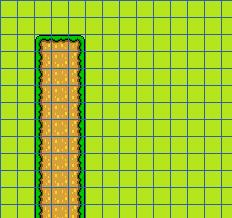
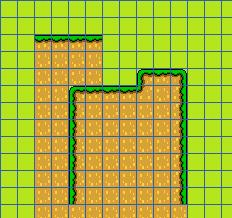
added more to the render array generator

diff --git a/LevelGenerator/src/RenderArray.java b/LevelGenerator/src/RenderArray.java
@@ -19,38 +19,84 @@ public class RenderArray {
     }
 
     public void buildRenderArray(TestArray tArray){
-        for(int i = 0; i < TestArray.LEVEL_WIDTH; i++){
-            for(int j = 0; j < TestArray.LEVEL_HEIGHT; j++) {
-                switch (tArray.getVal(i, j)) {
+        for(int i = 0; i < TestArray.LEVEL_HEIGHT; i++){
+            for(int j = 0; j < TestArray.LEVEL_WIDTH; j++) {
+                switch (tArray.getVal(j, i)) {
+                    case TestArray.PLATFORM:
+                        handlePlatform(tArray, j, i);
+                        break;
                     case TestArray.GROUND:
-                        handleGround(tArray, i, j);
+                        handleGround(tArray, j, i);
                         break;
                 }
             }
         }
     }
 
+    public int checkNeighbors(TestArray tArray, int x, int y){
+
+        int result = 0x0;
+
+        if(tArray.getVal(x-1, y) == TestArray.GROUND){ result |= 0x1; }
+        if(tArray.getVal(x+1, y) == TestArray.GROUND){ result |= 0x2; }
+        if(tArray.getVal(x, y-1) == TestArray.GROUND){ result |= 0x4; }
+        if(tArray.getVal(x, y+1) == TestArray.GROUND){ result |= 0x8; }
+        if(tArray.getVal(x-1, y-1) != TestArray.GROUND){ result |= 0x10; }
+        if(tArray.getVal(x+1, y-1) != TestArray.GROUND){ result |= 0x20; }
+        if(tArray.getVal(x-1, y+1) != TestArray.GROUND){ result |= 0x40; }
+        if(tArray.getVal(x+1, y+1) != TestArray.GROUND){ result |= 0x80; }
+
+
+        return result;
+
+    }
+
+
+
     public void handleGround(TestArray tArray, int x, int y){
-        if(     tArray.getVal(x-1, y) == TestArray.GROUND &&
-                tArray.getVal(x+1, y) == TestArray.GROUND){
-            this.setVal(x, y, 161);
-            drawToBottom(164, x, y);
-        }
-        else if(tArray.getVal(x-1, y) == TestArray.GROUND &&
-                tArray.getVal(x+1, y) != TestArray.GROUND){
-            this.setVal(x, y, 153);
-            drawToBottom(155, x, y);
-        }
-        else if(tArray.getVal(x-1, y) != TestArray.GROUND &&
-                tArray.getVal(x+1, y) == TestArray.GROUND){
-            this.setVal(x, y, 152);
-            drawToBottom(154, x, y);
+
+        int ch = checkNeighbors(tArray, x, y);
+        int adj = ch & 0xf;
+        int crn = (ch & 0xf0) >> 4;
+
+        switch(adj){
+            case 0xb:
+                this.setVal(x, y, 161);
+                break;
+            case 0x9:
+                this.setVal(x, y, 153);
+                break;
+            case 0xa:
+                this.setVal(x, y, 152);
+                break;
+            case 0xe:
+                this.setVal(x, y, 154);
+                break;
+            case 0xd:
+                this.setVal(x, y, 155);
+                break;
+            default:
+                System.out.println(crn);
+                switch(crn){
+                    case 0x1:
+                        this.setVal(x, y, 219);
+                        break;
+                    case 0x2:
+                        this.setVal(x, y, 220);
+                        break;
+                    default:
+                        this.setVal(x, y, 164);
+                        break;
+
+                }
+                break;
         }
     }
 
-    public void drawToBottom(int id, int x, int y){
-        for(int j = y + 1; j < TestArray.LEVEL_HEIGHT; j++){
-            this.setVal(x, j, id);
+    public void handlePlatform(TestArray tArray, int x, int y){
+        this.setVal(x, y, 161);
+        for(int j = y+1; j < TestArray.LEVEL_HEIGHT; j++){
+            this.setVal(x, j, 164);
         }
     }
 

diff --git a/LevelGenerator/src/TestArray.java b/LevelGenerator/src/TestArray.java
@@ -4,13 +4,26 @@ public class TestArray {
 
     public static final Integer LEVEL_WIDTH = 16;
     public static final Integer LEVEL_HEIGHT = 14;
-    public static final int GROUND = 1;
+    public static final int PLATFORM = -11; //todo: set to -11
+    public static final int GROUND = -10;
 
     public TestArray(){
         this.tArray = new int[LEVEL_HEIGHT][LEVEL_WIDTH];
-        tArray[2][2] = GROUND;
-        tArray[2][3] = GROUND;
-        tArray[2][4] = GROUND;
+        tArray[2][2] = PLATFORM;
+        tArray[2][3] = PLATFORM;
+        tArray[2][4] = PLATFORM;
+        tArray[2][5] = PLATFORM;
+
+        for(int i = 5; i < LEVEL_HEIGHT -1; i++){
+            for(int j = 4; j < 8; j++){
+                tArray[i][j] = GROUND;
+            }
+        }
+        for(int i = 4; i < LEVEL_HEIGHT -1; i++){
+            for(int j = 8; j < 11; j++){
+                tArray[i][j] = GROUND;
+            }
+        }
     }
 
     public Integer getVal(int x, int y){

diff --git a/LevelGenerator/src/SpriteMap.java b/LevelGenerator/src/SpriteMap.java
@@ -19,6 +19,9 @@ public class SpriteMap {
         map.put(161, new Coordinate(1, 10));
         map.put(164, new Coordinate(4, 10));
 
+        map.put(219, new Coordinate(11, 13));
+        map.put(220, new Coordinate(11, 14));
+
     }
 
     public Coordinate findCoords(int blockID){
